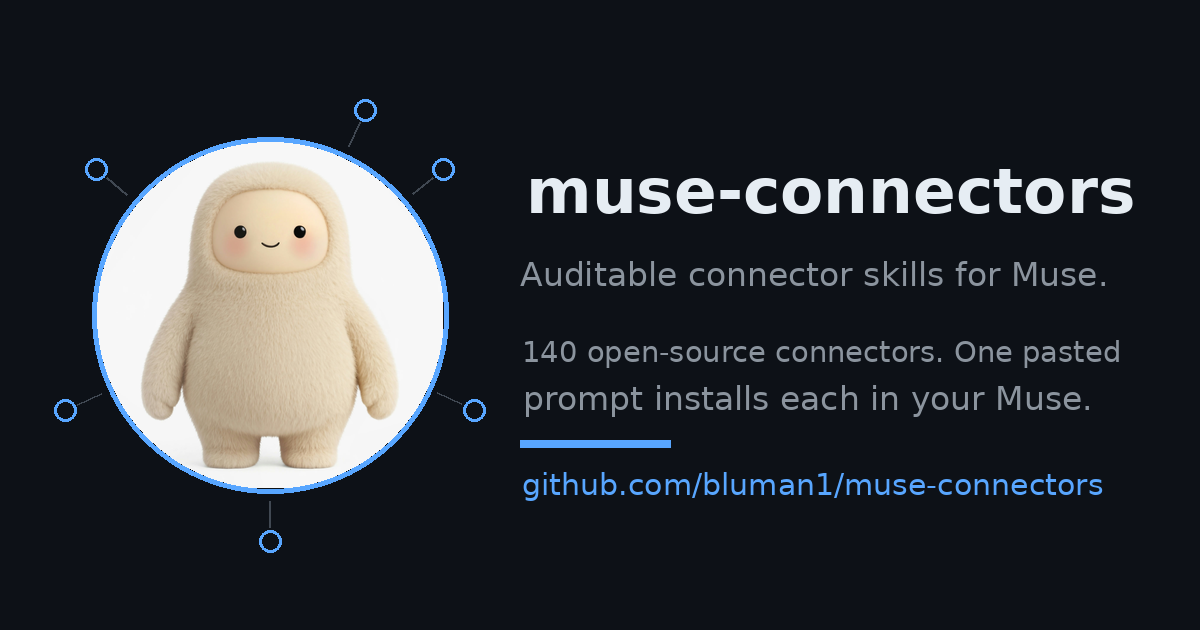
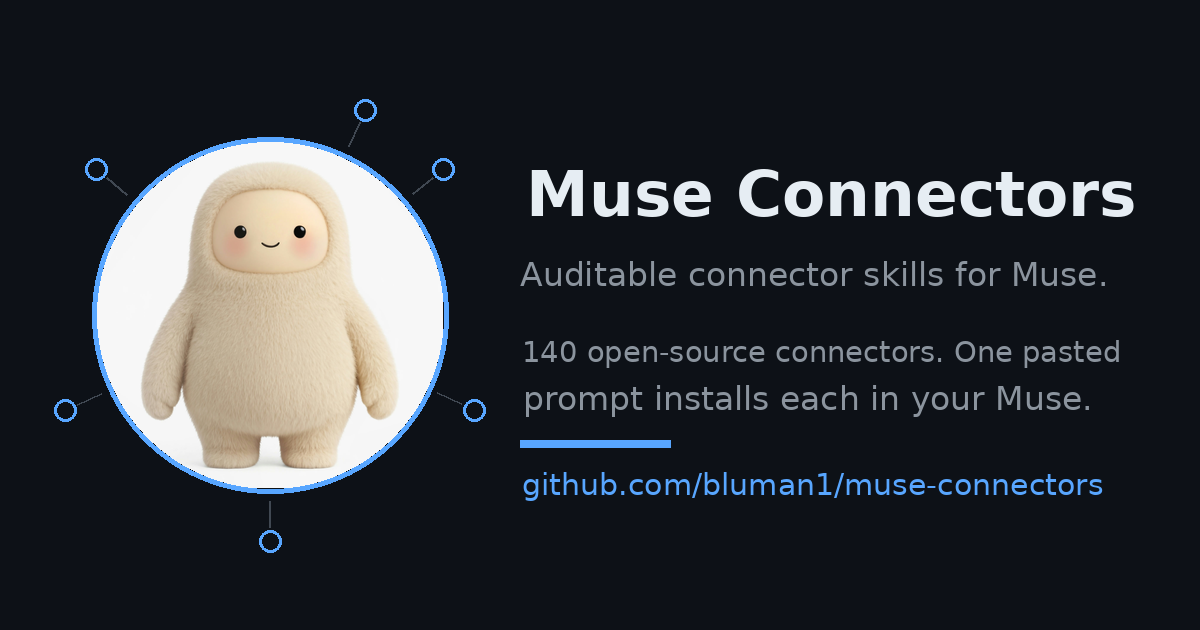
Brand as 'Muse Connectors'; fix hovers, footer phantom card, auto og-image
- Nav, tab title, meta tags and footer now use 'Muse Connectors'
- Button hovers no longer flash purple; dark buttons darken to black
  so white text keeps full contrast
- Fixed .detail CSS overriding [hidden]: an empty bordered card was
  rendering between the catalog and the security section
- build-site.py now regenerates docs/og-image.png with the live
  connector count on every build, so the preview number can't go stale

Changed region(s): [[0.4317, 0.2714, 0.9558, 0.3619]]

diff --git a/docs/index.html b/docs/index.html
@@ -3,17 +3,17 @@
 <head>
 <meta charset="utf-8">
 <meta name="viewport" content="width=device-width, initial-scale=1">
-<title>muse-connectors: auditable connector skills for Muse</title>
+<title>Muse Connectors: auditable connector skills for Muse</title>
 <meta name="description" content="Browse every open-source Muse connector. Copy a one-paste install prompt, audit the code, connect your own account.">
 <link rel="icon" type="image/png" href="avatar/favicon.png">
 <meta property="og:type" content="website">
-<meta property="og:site_name" content="muse-connectors">
-<meta property="og:title" content="muse-connectors: auditable connector skills for Muse">
+<meta property="og:site_name" content="Muse Connectors">
+<meta property="og:title" content="Muse Connectors: auditable connector skills for Muse">
 <meta property="og:description" content="Browse every open-source Muse connector. Copy a one-paste install prompt, audit the code, connect your own account.">
 <meta property="og:url" content="https://bluman1.github.io/muse-connectors/">
 <meta property="og:image" content="https://bluman1.github.io/muse-connectors/og-image.png">
 <meta name="twitter:card" content="summary_large_image">
-<meta name="twitter:title" content="muse-connectors: auditable connector skills for Muse">
+<meta name="twitter:title" content="Muse Connectors: auditable connector skills for Muse">
 <meta name="twitter:description" content="Browse every open-source Muse connector. Copy a one-paste install prompt, audit the code, connect your own account.">
 <meta name="twitter:image" content="https://bluman1.github.io/muse-connectors/og-image.png">
 <link rel="preconnect" href="https://fonts.googleapis.com">
@@ -46,7 +46,7 @@ body{margin:0;background:var(--bg);color:var(--ink);font-family:Sora,-apple-syst
 .navlinks a:hover{color:var(--ink)}
 .btn{display:inline-flex;align-items:center;justify-content:center;font-family:Sora,sans-serif;font-weight:500;cursor:pointer;text-decoration:none;border:0}
 .btn-repo{background:var(--ink);color:#fff;font-size:13px;padding:9px 16px;border-radius:999px}
-.btn-repo:hover{background:var(--accent)}
+.btn-repo:hover{background:#000}
 /* ---------- hero ---------- */
 .hero{display:grid;grid-template-columns:1.1fr .9fr;gap:48px;padding:64px 40px 40px;align-items:end}
 .hero-left{display:flex;flex-direction:column;gap:20px;align-items:flex-start}
@@ -80,7 +80,7 @@ body{margin:0;background:var(--bg);color:var(--ink);font-family:Sora,-apple-syst
 .tile{width:40px;height:40px;flex:none;border-radius:12px;background:var(--accent-tint);color:var(--accent);font-size:16px;font-weight:600;display:flex;align-items:center;justify-content:center}
 .cmeta{flex:1;min-width:0}
 .cname{background:none;border:0;padding:0;font-family:Sora,sans-serif;font-size:15px;font-weight:600;color:var(--ink);cursor:pointer;text-align:left}
-.cname:hover{color:var(--accent)}
+.cname:hover{color:var(--ink);text-decoration:underline}
 .ccat{font-size:12px;color:var(--muted);margin-top:2px}
 .pill{flex:none;font-size:11px;font-weight:500;padding:4px 9px;border-radius:999px}
 .pill.live{color:var(--live-text);background:var(--live-bg)}
@@ -92,13 +92,14 @@ body{margin:0;background:var(--bg);color:var(--ink);font-family:Sora,-apple-syst
 .hval{overflow:hidden;text-overflow:ellipsis;white-space:nowrap}
 .cfoot{display:flex;gap:8px;border-top:1px solid var(--divider);padding-top:14px}
 .btn-copy{flex:1;background:var(--ink);color:#fff;font-size:13px;padding:10px 14px;border-radius:10px}
-.btn-copy:hover{background:var(--accent)}
+.btn-copy:hover{background:#000}
 .btn-view{background:var(--surface);border:1px solid var(--border);color:var(--ink);font-size:13px;padding:10px 14px;border-radius:10px}
 .btn-view:hover{border-color:var(--ink)}
 pre.prompt{background:var(--code-bg);border:1px solid var(--border);border-radius:12px;padding:14px;font-family:var(--mono);font-size:11.5px;line-height:1.6;color:var(--code-text);white-space:pre-wrap;word-break:break-word;margin:0;max-height:320px;overflow:auto}
 .empty{padding:40px 0;text-align:center;font-size:14px;color:var(--muted)}
 /* ---------- detail panel ---------- */
-.detail{margin:28px 40px 0;background:var(--surface);border:1px solid var(--border);border-radius:24px;padding:32px;display:flex;flex-direction:column;gap:24px;scroll-margin-top:140px}
+.detail{margin:28px 40px 0;background:var(--surface);border:1px solid var(--border);border-radius:24px;padding:32px;flex-direction:column;gap:24px;scroll-margin-top:140px}
+.detail:not([hidden]){display:flex}
 .dtop{display:flex;justify-content:space-between;align-items:center}
 .crumb{font-family:var(--mono);font-size:12px;color:var(--muted)}
 .x{width:32px;height:32px;border-radius:999px;border:1px solid var(--border);background:var(--surface);color:var(--body);font-size:14px;cursor:pointer;line-height:1}
@@ -194,7 +195,7 @@ code.lite{font-family:var(--mono);font-size:13px;background:var(--chip-bg);paddi
   <nav class="nav">
     <div class="brand">
       <video src="avatar/hatch.mp4" poster="avatar/hatch.jpg" autoplay muted loop playsinline aria-label="Muse avatar"></video>
-      <span class="word">muse-connectors</span>
+      <span class="word">Muse Connectors</span>
       <span class="pilltag">catalog</span>
     </div>
     <div class="navlinks">
@@ -259,7 +260,7 @@ code.lite{font-family:var(--mono);font-size:13px;background:var(--chip-bg);paddi
   </section>
 
   <footer class="footer">
-    <div>muse-connectors &middot; MIT licensed</div>
+    <div>Muse Connectors &middot; MIT licensed</div>
     <div class="fright">
       <a class="flink" href="https://github.com/bluman1/muse-connectors">Repository</a>
       <a class="flink" href="https://github.com/bluman1/muse-connectors/blob/main/INSTALL.md">One-paste install</a>

diff --git a/tools/build-site.py b/tools/build-site.py
@@ -178,17 +178,17 @@ TEMPLATE = r"""<!DOCTYPE html>
 <head>
 <meta charset="utf-8">
 <meta name="viewport" content="width=device-width, initial-scale=1">
-<title>muse-connectors: auditable connector skills for Muse</title>
+<title>Muse Connectors: auditable connector skills for Muse</title>
 <meta name="description" content="Browse every open-source Muse connector. Copy a one-paste install prompt, audit the code, connect your own account.">
 <link rel="icon" type="image/png" href="avatar/favicon.png">
 <meta property="og:type" content="website">
-<meta property="og:site_name" content="muse-connectors">
-<meta property="og:title" content="muse-connectors: auditable connector skills for Muse">
+<meta property="og:site_name" content="Muse Connectors">
+<meta property="og:title" content="Muse Connectors: auditable connector skills for Muse">
 <meta property="og:description" content="Browse every open-source Muse connector. Copy a one-paste install prompt, audit the code, connect your own account.">
 <meta property="og:url" content="https://bluman1.github.io/muse-connectors/">
 <meta property="og:image" content="https://bluman1.github.io/muse-connectors/og-image.png">
 <meta name="twitter:card" content="summary_large_image">
-<meta name="twitter:title" content="muse-connectors: auditable connector skills for Muse">
+<meta name="twitter:title" content="Muse Connectors: auditable connector skills for Muse">
 <meta name="twitter:description" content="Browse every open-source Muse connector. Copy a one-paste install prompt, audit the code, connect your own account.">
 <meta name="twitter:image" content="https://bluman1.github.io/muse-connectors/og-image.png">
 <link rel="preconnect" href="https://fonts.googleapis.com">
@@ -221,7 +221,7 @@ body{margin:0;background:var(--bg);color:var(--ink);font-family:Sora,-apple-syst
 .navlinks a:hover{color:var(--ink)}
 .btn{display:inline-flex;align-items:center;justify-content:center;font-family:Sora,sans-serif;font-weight:500;cursor:pointer;text-decoration:none;border:0}
 .btn-repo{background:var(--ink);color:#fff;font-size:13px;padding:9px 16px;border-radius:999px}
-.btn-repo:hover{background:var(--accent)}
+.btn-repo:hover{background:#000}
 /* ---------- hero ---------- */
 .hero{display:grid;grid-template-columns:1.1fr .9fr;gap:48px;padding:64px 40px 40px;align-items:end}
 .hero-left{display:flex;flex-direction:column;gap:20px;align-items:flex-start}
@@ -255,7 +255,7 @@ body{margin:0;background:var(--bg);color:var(--ink);font-family:Sora,-apple-syst
 .tile{width:40px;height:40px;flex:none;border-radius:12px;background:var(--accent-tint);color:var(--accent);font-size:16px;font-weight:600;display:flex;align-items:center;justify-content:center}
 .cmeta{flex:1;min-width:0}
 .cname{background:none;border:0;padding:0;font-family:Sora,sans-serif;font-size:15px;font-weight:600;color:var(--ink);cursor:pointer;text-align:left}
-.cname:hover{color:var(--accent)}
+.cname:hover{color:var(--ink);text-decoration:underline}
 .ccat{font-size:12px;color:var(--muted);margin-top:2px}
 .pill{flex:none;font-size:11px;font-weight:500;padding:4px 9px;border-radius:999px}
 .pill.live{color:var(--live-text);background:var(--live-bg)}
@@ -267,13 +267,14 @@ body{margin:0;background:var(--bg);color:var(--ink);font-family:Sora,-apple-syst
 .hval{overflow:hidden;text-overflow:ellipsis;white-space:nowrap}
 .cfoot{display:flex;gap:8px;border-top:1px solid var(--divider);padding-top:14px}
 .btn-copy{flex:1;background:var(--ink);color:#fff;font-size:13px;padding:10px 14px;border-radius:10px}
-.btn-copy:hover{background:var(--accent)}
+.btn-copy:hover{background:#000}
 .btn-view{background:var(--surface);border:1px solid var(--border);color:var(--ink);font-size:13px;padding:10px 14px;border-radius:10px}
 .btn-view:hover{border-color:var(--ink)}
 pre.prompt{background:var(--code-bg);border:1px solid var(--border);border-radius:12px;padding:14px;font-family:var(--mono);font-size:11.5px;line-height:1.6;color:var(--code-text);white-space:pre-wrap;word-break:break-word;margin:0;max-height:320px;overflow:auto}
 .empty{padding:40px 0;text-align:center;font-size:14px;color:var(--muted)}
 /* ---------- detail panel ---------- */
-.detail{margin:28px 40px 0;background:var(--surface);border:1px solid var(--border);border-radius:24px;padding:32px;display:flex;flex-direction:column;gap:24px;scroll-margin-top:140px}
+.detail{margin:28px 40px 0;background:var(--surface);border:1px solid var(--border);border-radius:24px;padding:32px;flex-direction:column;gap:24px;scroll-margin-top:140px}
+.detail:not([hidden]){display:flex}
 .dtop{display:flex;justify-content:space-between;align-items:center}
 .crumb{font-family:var(--mono);font-size:12px;color:var(--muted)}
 .x{width:32px;height:32px;border-radius:999px;border:1px solid var(--border);background:var(--surface);color:var(--body);font-size:14px;cursor:pointer;line-height:1}
@@ -369,7 +370,7 @@ code.lite{font-family:var(--mono);font-size:13px;background:var(--chip-bg);paddi
   <nav class="nav">
     <div class="brand">
       <video src="avatar/hatch.mp4" poster="avatar/hatch.jpg" autoplay muted loop playsinline aria-label="Muse avatar"></video>
-      <span class="word">muse-connectors</span>
+      <span class="word">Muse Connectors</span>
       <span class="pilltag">catalog</span>
     </div>
     <div class="navlinks">
@@ -434,7 +435,7 @@ code.lite{font-family:var(--mono);font-size:13px;background:var(--chip-bg);paddi
   </section>
 
   <footer class="footer">
-    <div>muse-connectors &middot; MIT licensed</div>
+    <div>Muse Connectors &middot; MIT licensed</div>
     <div class="fright">
       <a class="flink" href="https://github.com/bluman1/muse-connectors">Repository</a>
       <a class="flink" href="https://github.com/bluman1/muse-connectors/blob/main/INSTALL.md">One-paste install</a>
@@ -634,6 +635,114 @@ fetch("connectors.json").then((r) => {
 """
 
 
+def build_og_image(count):
+    """Regenerate docs/og-image.png with the current connector count.
+
+    build-site.py runs whenever connectors change, so the social preview
+    number can never go stale: it always matches the live catalog.
+    """
+    try:
+        from PIL import Image, ImageDraw, ImageFont
+    except ImportError:
+        print("warning: Pillow not installed, skipping og-image.png")
+        return
+    import math
+
+    def find_font(bold):
+        candidates = [
+            "/usr/share/fonts/truetype/dejavu/"
+            + ("DejaVuSans-Bold.ttf" if bold else "DejaVuSans.ttf"),
+            "/usr/share/fonts/truetype/liberation/"
+            + ("LiberationSans-Bold.ttf" if bold else "LiberationSans-Regular.ttf"),
+        ]
+        for c in candidates:
+            if Path(c).exists():
+                return c
+        return None
+
+    fb_path, fr_path = find_font(True), find_font(False)
+    if not fb_path or not fr_path:
+        print("warning: no suitable fonts found, skipping og-image.png")
+        return
+    avatar_src = ROOT / "docs" / "avatar" / "hatch.jpg"
+    if not avatar_src.exists():
+        print("warning: docs/avatar/hatch.jpg missing, skipping og-image.png")
+        return
+
+    W, H = 1200, 630
+    BG = (13, 17, 23)
+    BLUE = (88, 166, 255)
+    TITLE_C = (230, 237, 243)
+    BODY_C = (139, 148, 158)
+    LINE_C = (64, 72, 82)
+
+    img = Image.new("RGB", (W, H), BG)
+    d = ImageDraw.Draw(img)
+
+    # avatar in blue ring
+    av = Image.open(avatar_src).convert("RGB")
+    s = min(av.size)
+    av = av.crop(((av.width - s) // 2, (av.height - s) // 2,
+                  (av.width + s) // 2, (av.height + s) // 2))
+    r_in = 173
+    av = av.resize((2 * r_in, 2 * r_in), Image.LANCZOS)
+    mask = Image.new("L", (2 * r_in, 2 * r_in), 0)
+    ImageDraw.Draw(mask).ellipse((0, 0, 2 * r_in, 2 * r_in), fill=255)
+    img.paste(av, (270 - r_in, 315 - r_in), mask)
+
+    # ring + satellite nodes
+    r, rw = 178, 5
+    d.ellipse((270 - r, 315 - r, 270 + r, 315 + r), outline=BLUE, width=rw)
+    for nx, ny in [(365, 110), (96, 169), (443, 169),
+                   (65, 410), (474, 410), (270, 541)]:
+        d.ellipse((nx - 11, ny - 11, nx + 11, ny + 11), outline=BLUE, width=3)
+        dx, dy = 270 - nx, 315 - ny
+        ln = math.hypot(dx, dy)
+        ux, uy = dx / ln, dy / ln
+        d.line((nx + ux * 14, ny + uy * 14, nx + ux * 40, ny + uy * 40),
+               fill=LINE_C, width=2)
+
+    def size_for(text, target_w, font_path):
+        lo, hi = 1, 300
+        while lo < hi:
+            mid = (lo + hi + 1) // 2
+            f = ImageFont.truetype(font_path, mid)
+            if d.textlength(text, font=f) <= target_w:
+                lo = mid
+            else:
+                hi = mid - 1
+        return lo
+
+    def draw_at(x, y_top, text, font, fill):
+        bb = d.textbbox((0, 0), text, font=font)
+        d.text((x - bb[0], y_top - bb[1]), text, font=font, fill=fill)
+
+    x = 522
+    wordmark = "Muse Connectors"
+    draw_at(x + 4, 169, wordmark,
+            ImageFont.truetype(fb_path, size_for(wordmark, 614, fb_path)),
+            TITLE_C)
+    sub = "Auditable connector skills for Muse."
+    draw_at(x - 2, 261, sub,
+            ImageFont.truetype(fr_path, size_for(sub, 597, fr_path)), BODY_C)
+    line1 = f"{count} open-source connectors. One pasted"
+    # size from the original "50..." width so the line keeps its measure
+    ref1 = "50 open-source connectors. One pasted"
+    fs1 = size_for(ref1, 593, fr_path)
+    draw_at(x, 340, line1, ImageFont.truetype(fr_path, fs1), BODY_C)
+    line2 = "prompt installs each in your Muse."
+    draw_at(x + 1, 385, line2,
+            ImageFont.truetype(fr_path, size_for(line2, 576, fr_path)), BODY_C)
+    d.rectangle((520, 440, 670, 447), fill=BLUE)
+    url = "github.com/bluman1/muse-connectors"
+    draw_at(x, 472, url,
+            ImageFont.truetype(fr_path, size_for(url, 586, fr_path)), BLUE)
+
+    out = ROOT / "docs" / "og-image.png"
+    img.save(out)
+    print(f"wrote {out} ({count} connectors)")
+
+
 def main():
     readme = (ROOT / "README.md").read_text()
     connectors = []
@@ -661,6 +770,7 @@ def main():
         print(f"removed stray {stray.name}")
     print(f"wrote {out} ({len(connectors)} connectors)")
     print(f"wrote {docs / 'index.html'}")
+    build_og_image(len(connectors))
 
 
 if __name__ == "__main__":
